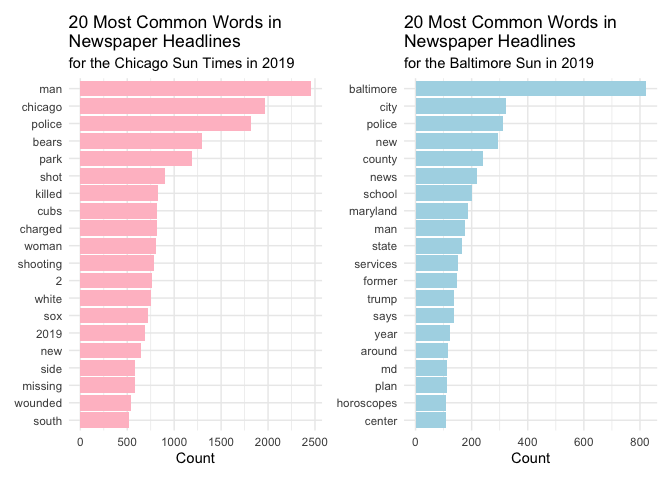
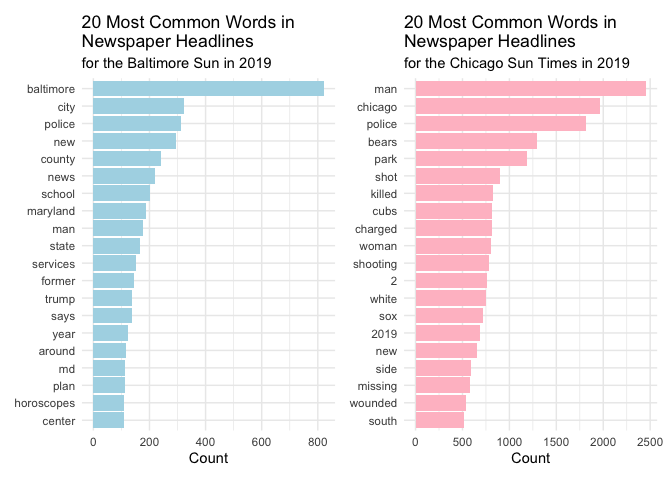
I'm pretty much done with all the coding, the only thing perhaps left to do is making the graphs a bit prettier.

diff --git a/homework-03.md b/homework-03.md
@@ -21,10 +21,6 @@ the end?
 For question 3, why does faceted plot not order words in descending
 order?
 
-for question 3, is there a way to reorder facets?
-
-Why does the document not knit?
-
 ``` r
 #load required packages
 library(tidyverse)
@@ -368,7 +364,7 @@ baltimore_plot <- baltimore_words %>%
        x = "Count",
        y = NULL)
 
-chicago_plot + baltimore_plot
+baltimore_plot + chicago_plot
 ```
 
 ![](homework-03_files/figure-gfm/exercise-3-barchart-1.png)<!-- -->
@@ -385,10 +381,12 @@ balt_chi <- bind_rows(baltimore_prebind, chicago_prebind)
 
 #present bar charts side by side
 balt_chi %>%
+  mutate(word = reorder_within(word, n, city)) %>%
   group_by(city) %>%
-  ggplot(mapping = aes(y = reorder(word, n), x = n, fill = city)) +
+  ggplot(mapping = aes(y = word, x = n, fill = city)) +
   facet_wrap(vars(city), scales = "free") +
   scale_fill_manual(values = c("lightblue", "pink")) +
+  scale_y_reordered() +
   geom_col(show.legend = FALSE) +
   theme_minimal() +
   labs(title = "20 Most Common Words in Newspaper Headlines",
@@ -404,17 +402,12 @@ balt_chi %>%
 ``` r
 #load data
 brexit <- read_csv("data/brexit.csv") %>%
-#  filter(opinion != "Don't know") %>%
+  filter(opinion != "Don't know") %>%
   mutate(region_name = case_when(region == "scot" ~ "Scotland",
                                  region == "north" ~ "North",
                                  region == "midlands_wales" ~ "Midlands / Wales",
                                  region == "rest_of_south" ~ "Rest of South",
-                                 region == "london" ~ "London")) %>%
-  mutate(opinion_score = case_when(opinion == "Very badly" ~ 1,
-                                   opinion == "Faily badly" ~ 2,
-                                   opinion == "Don't know" ~ 3,
-                                   opinion == "Fairly well" ~ 4,
-                                   opinion == "Very well" ~ 5))
+                                 region == "london" ~ "London"))
 ```
 
     ## Rows: 1643 Columns: 2
@@ -430,6 +423,9 @@ brexit <- read_csv("data/brexit.csv") %>%
 brexit_regions <- brexit %>%
   group_by(region_name, opinion) %>%
   summarize(count = n()) %>%
+  mutate(percentage = (count/sum(count))*100) %>%
+  mutate(opinion = fct_rev(fct_relevel(opinion, "Very badly", after = 0))) %>%
+  rename(Opinion = opinion) %>%
   ungroup()
 ```
 
@@ -438,11 +434,58 @@ brexit_regions <- brexit %>%
 
 ``` r
 #create percentage bar chart (A)
-brexit_regions %>%
-  ggplot(mapping = aes(x = count, y = region_name, fill = opinion)) +
-  geom_col() +
-  scale_fill_discrete_diverging(palette = "Blue-Red") +
-  theme_minimal()
+A <- brexit_regions %>%
+  ggplot(mapping = aes(x = percentage, y = fct_relevel(region_name, "Rest of South", after = 1), fill = Opinion)) +
+  geom_bar(stat = "identity",
+           position = "fill") +
+  scale_fill_discrete_diverging(palette = "Blue-Red",
+                                guide = guide_legend(reverse = TRUE)) +
+  scale_x_continuous(labels = label_number(suffix = "%",
+                                           scale = 100)) +
+  theme_minimal() +
+  theme(legend.position = "top",
+        aspect.ratio = 1/3) +
+  labs(title = NULL,
+       subtitle = NULL,
+       x = "Percent",
+       y = NULL,
+       caption = NULL)
+
+#create count bar chart (B)
+B <- brexit_regions %>%
+  ggplot(mapping = aes(x = count, y = fct_relevel(region_name, "Rest of South", after = 1), fill = Opinion)) +
+  geom_bar(stat = "identity") +
+  scale_fill_discrete_diverging(palette = "Blue-Red",
+                                guide = guide_legend(reverse = TRUE)) +
+  theme_minimal() +
+  theme(legend.position = "top",
+        aspect.ratio = 1/3) +
+  labs(title = NULL,
+       subtitle = NULL,
+       x = "Count",
+       y = NULL,
+       caption = NULL)
+
+#create faceted bar chart (C)
+C <- brexit_regions %>%
+  ggplot(mapping = aes(x = count, y = Opinion, fill = Opinion)) +
+  geom_bar(stat = "identity",
+           show.legend = FALSE) +
+  facet_wrap(facets = vars(fct_relevel(region_name, "Rest of South", after = 1)),
+             ncol = 5) +
+  scale_fill_discrete_diverging(palette = "Blue-Red",
+                                guide = guide_legend(reverse = TRUE)) +
+  scale_x_continuous(breaks = seq(0, 200, by = 100)) +
+  theme_minimal() +
+  theme(legend.position = "top") +
+  labs(title = "How well or badly do you think the government are doing\nat handling Britain's exit from the European Union?",
+       subtitle = "YouGov Survey Results, 2-3 September 2019",
+       caption = "Source: bit.ly/2lCJZVg",
+       x = "Count",
+       y = NULL)
+
+#patchwork plots together
+guide_area() / (A | B) / C + plot_layout(guides = "collect") + plot_annotation(tag_levels = 'A')
 ```
 
 ![](homework-03_files/figure-gfm/exercise-4-1.png)<!-- -->
